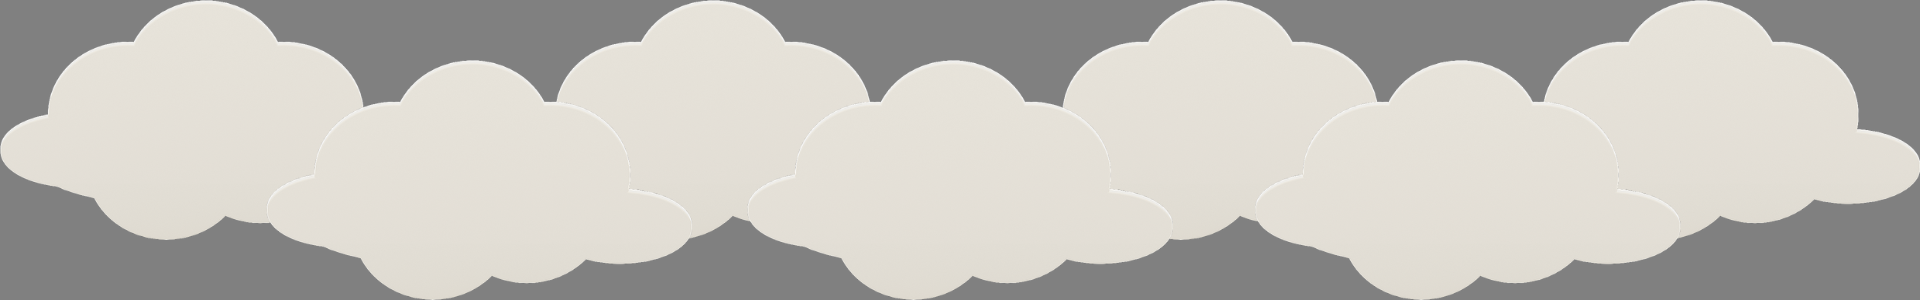
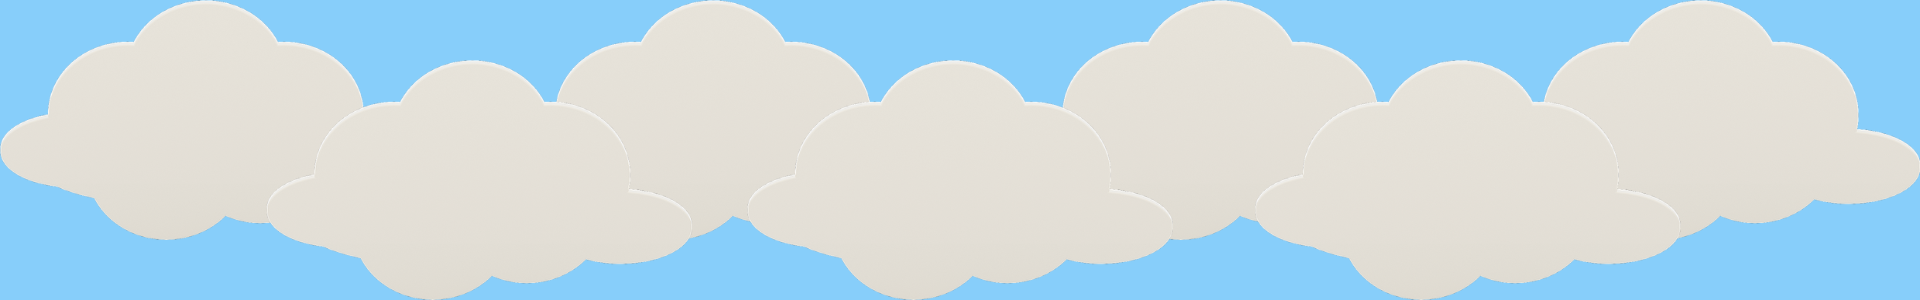
+

diff --git a/index.html b/index.html
@@ -10,7 +10,7 @@
     <link href="https://fonts.googleapis.com/css2?family=Roboto:ital,wght@1,300;1,400;1,500;1,700&display=swap" rel="stylesheet">
     <script src="https://cdn.jsdelivr.net/npm/bootstrap@5.3.3/dist/js/bootstrap.bundle.min.js"></script>
     </head>
-    <body background="img/clouds.png">
+    <body>
     
 <div class="container-fluid title" style="background-image: url(img/background-fly.png);">
     <div class="container-fluid">
@@ -28,7 +28,7 @@
             <p class="description">-Have a good trip!</p>
             <button type="button" class="btn btn-secondary button-insert" onclick="insertNumber();">Let's Try!</button>
 </div>
-        <div class="container-fluid text-center buttons-plus-or-minus">
+        <div class="container-fluid text-center buttons-plus-or-minus" style="background-image: url(img/clouds.png);">
         <button type="button" class="btn btn-outline-primary button-functions" onclick="increse();">+1</button>
 
         <p class="js-counter">0</p>

diff --git a/css/styles.css b/css/styles.css
@@ -35,6 +35,7 @@ h1 {
 }
 .buttons-plus-or-minus{
     margin-top: 100px;
+    height: 900px;
 }
 .js-counter {
     margin-top: 20px;
@@ -44,7 +45,7 @@ h1 {
 
 
 body {
-    background-color: rgb(128, 128, 128);
+    background-color: #87cefa;
     padding-top: 0px;
     margin-top: 0px;
 }
